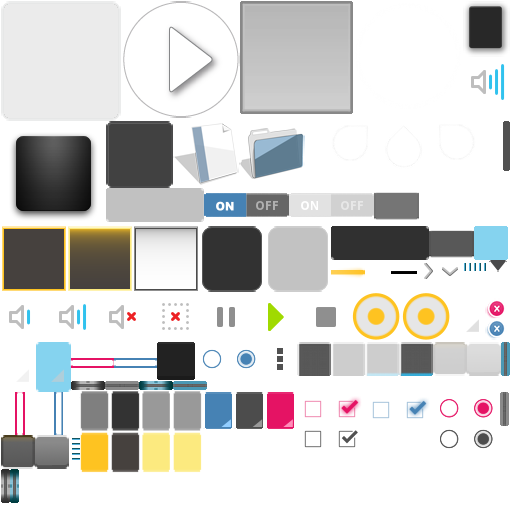
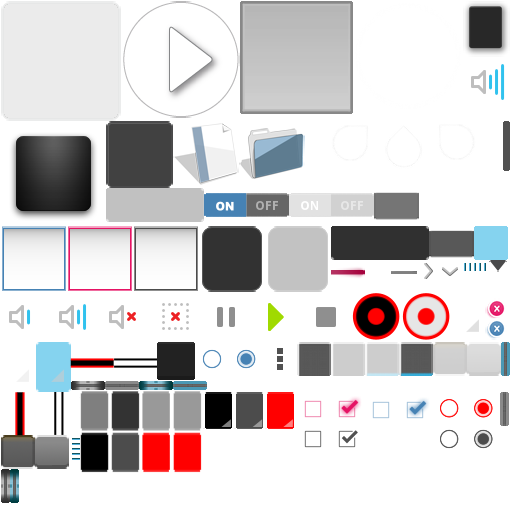
Add version and tutorial button + change kivy theme

diff --git a/screens/settings.py b/screens/settings.py
@@ -9,9 +9,8 @@ Module for the settings menu
 # Revoir le tutoriel
 
 # from kivy.uix.spinner import Spinner
-from kivy.properties import StringProperty, ObjectProperty, NumericProperty, ListProperty
+from kivy.properties import StringProperty, NumericProperty, ListProperty
 from tools.path import (
-    PATH_TITLE_FONT,
     PATH_IMAGES,
     PATH_TEXT_FONT
 )
@@ -23,7 +22,8 @@ from tools.constants import (
     LANGUAGES_LIST,
     DICT_LANGUAGE_CORRESPONDANCE,
     DICT_LANGUAGE_NAME_TO_CODE,
-    TEXT
+    TEXT,
+    __version__
 )
 from tools import (
     music_mixer,
@@ -44,6 +44,8 @@ class SettingsScreen(ImprovedScreen):
     disable_ads_label = StringProperty()
     enter_code_label = StringProperty()
     validate_label = StringProperty()
+    tutorial_label = StringProperty()
+    version_label = StringProperty()
 
     sound_volume_value = NumericProperty(0.5)
     music_volume_value = NumericProperty(0.5)
@@ -63,6 +65,8 @@ class SettingsScreen(ImprovedScreen):
         self.apply_label = TEXT.settings["apply"]
         self.language_label = TEXT.settings["language"]
         self.validate_label = TEXT.settings["validate"]
+        self.tutorial_label = TEXT.settings["tutorial"]
+        self.version_label = TEXT.settings["version"] + __version__
 
     def on_enter(self, *args):
         # Load the labels
@@ -102,3 +106,7 @@ class SettingsScreen(ImprovedScreen):
 
         USER_DATA.music_volume = self.music_volume_value
         USER_DATA.sound_effects_volume = self.sound_volume_value
+
+    def watch_tutorial(self):
+        # TODO
+        pass

diff --git a/tools/constants.py b/tools/constants.py
@@ -155,7 +155,7 @@ TEXT = Text(language=USER_DATA.language)
 ### Colors ###
 BACKGROUND_COLOR = (0, 0, 0, 1)
 TITLE_FONT_COLOR = (0, 0, 0, 1)
-TEXT_FONT_COLOR = (50 / 255, 50 / 255, 50 / 255, 1)
+TEXT_FONT_COLOR = (0, 0, 0, 1)
 
 ### Musics ###
 MUSIC_LIST = ["game_music.mp3", "time_of_the_apocalypse.mp3"]
